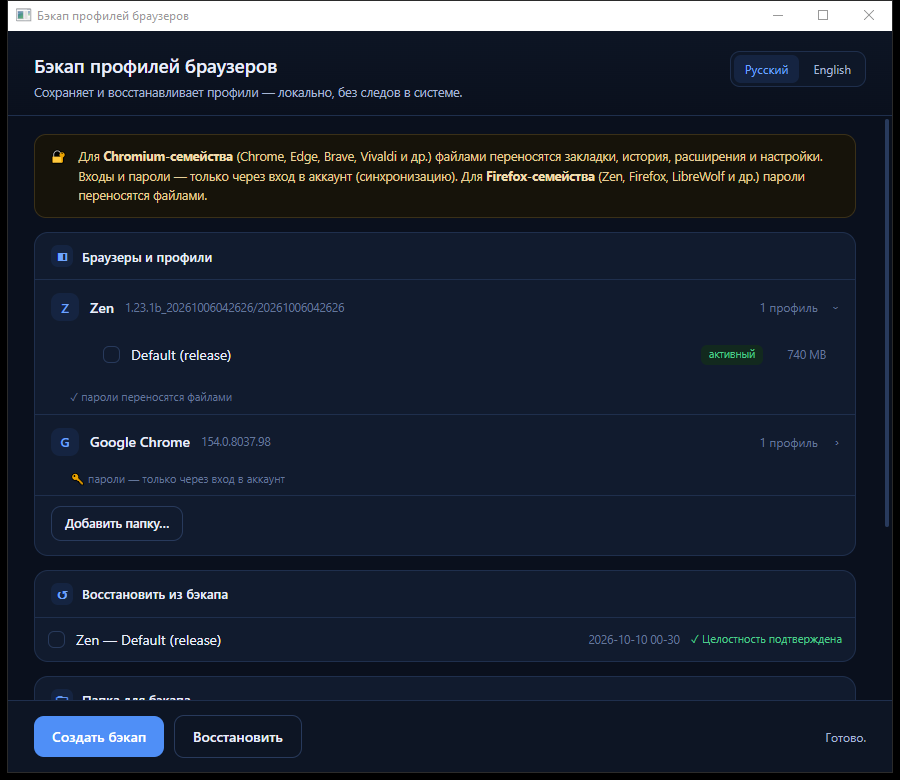
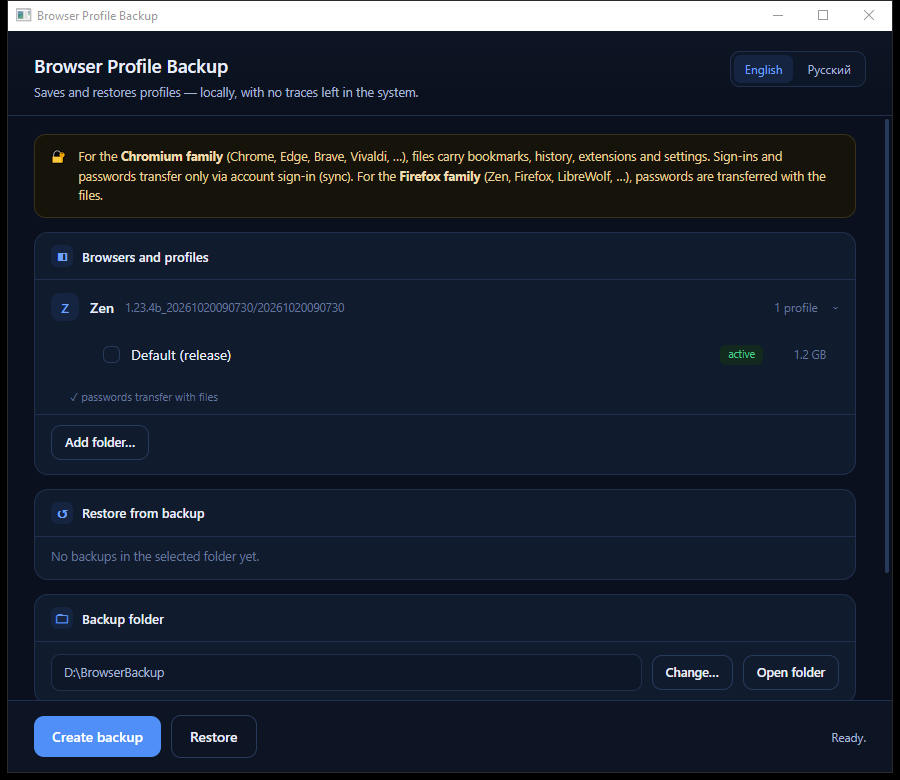
docs: English-first README, Helium in browser lists, new screenshot
README.md is now English-first: the English text is the main body and
Russian moved into a collapsible section, matching the app's new default
language. Added Helium to the browser tables, documented the optional
proc_path field in browsers.json, and described the bilingual backup
README file name.

README.txt updated for the same two changes.

docs/screenshot.png retaken from a real run of the current build: English
UI, the new default, at the app's actual default window size (900x780).

diff --git a/README.md b/README.md
@@ -1,120 +1,120 @@
 # BrowserBackup
 
-**Портативная утилита для Windows: сохраняет и восстанавливает профили браузеров.**
-Один `.exe`, без установки. Ничего не пишет в систему — ни в реестр, ни в `%APPDATA%`.
+**A portable Windows utility that backs up and restores browser profiles.**
+One `.exe`, no installation. Writes nothing to the system — not to the registry, not to `%APPDATA%`.
 
 <p align="center">
-  <img src="docs/screenshot.png" alt="Окно BrowserBackup" width="700">
+  <img src="docs/screenshot.png" alt="BrowserBackup window" width="700">
 </p>
 
 ---
 
-## Скачать
+## Download
 
-**[⬇ Последний релиз](https://github.com/Hayden-Wright/browser-backup-tool/releases/latest)** → `BrowserBackup.exe`
+**[⬇ Latest release](https://github.com/Hayden-Wright/browser-backup-tool/releases/latest)** → `BrowserBackup.exe`
 
-Запускать двойным щелчком. Установка не требуется — можно положить на флешку.
-При первом запуске SmartScreen может предупредить о «неизвестном издателе»
-(файл без платной подписи) — нажмите **«Подробнее» → «Выполнить в любом случае»**.
+Double-click to run. No installation needed — it runs from a USB stick.
+On first launch SmartScreen may warn about an "unknown publisher" (the file has no
+paid code-signing certificate) — click **"More info" → "Run anyway"**.
 
-> **Требование:** Windows 10/11 (64-бит). Нужен **WebView2 Runtime** — в Windows 11
-> и большинстве сборок Windows 10 он уже установлен. Если окно не открывается,
-> поставьте [Microsoft Edge WebView2 Runtime](https://developer.microsoft.com/microsoft-edge/webview2/).
-
----
-
-## Возможности
-
-- 🔒 **Полностью портативно** — настройки рядом с `.exe`, временные данные движка
-  удаляются при выходе, в профиле пользователя и реестре не остаётся следов.
-- 🧩 **Много браузеров** — Firefox- и Chromium-семейства определяются автоматически,
-  плюс режим «Другой браузер» для любого.
-- ✅ **Проверка целостности** — SHA-256 считается на лету при копировании, битый
-  бэкап сразу видно, а не «тихо сломанный».
-- 🛟 **Безопасное восстановление** — текущий профиль не удаляется: сначала делается
-  страховочная копия (`_safety`), откатиться можно в любой момент.
-- ⚡ **Отзывчивый интерфейс** — долгие операции идут в фоне, окно не «зависает».
-- 🌐 **Русский / English**, тёмная тема.
+> **Requirements:** Windows 10/11 (64-bit). Needs the **WebView2 Runtime** — it is
+> preinstalled on Windows 11 and most Windows 10 builds. If the window does not open,
+> install [Microsoft Edge WebView2 Runtime](https://developer.microsoft.com/microsoft-edge/webview2/).
 
 ---
 
-## Поддерживаемые браузеры
+## Features
 
-| Семейство | Браузеры | Пароли |
+- 🔒 **Fully portable** — settings live next to the `.exe`, the engine's temporary data
+  is deleted on exit, nothing is left in the user profile or the registry.
+- 🧩 **Many browsers** — Firefox and Chromium families are detected automatically,
+  plus an "Other browser" mode for anything else.
+- ✅ **Integrity checking** — SHA-256 is computed on the fly while copying, so a damaged
+  backup shows up immediately instead of being silently broken.
+- 🛟 **Safe restore** — your current profile is not deleted: a safety copy (`_safety`)
+  is made first, so you can roll back at any time.
+- ⚡ **Responsive UI** — long operations run in the background, the window never freezes.
+- 🌐 **English / Русский** — English is the default; Russian is a full second language,
+  switched in the window.
+
+---
+
+## Supported browsers
+
+| Family | Browsers | Passwords |
 |---|---|---|
-| **Firefox** | Zen, Firefox, LibreWolf, Waterfox, Floorp | ✅ переносятся файлами |
-| **Chromium** | Chrome, Edge, Brave, Vivaldi, Chromium, Thorium, Ungoogled Chromium, SRWare Iron, Arc | ⚠ только через синхронизацию аккаунта |
-| **Другой** | любой — указать папку профиля вручную | зависит от браузера |
+| **Firefox** | Zen, Firefox, LibreWolf, Waterfox, Floorp | ✅ transferred as files |
+| **Chromium** | Chrome, Edge, Brave, Vivaldi, Chromium, Thorium, Ungoogled Chromium, SRWare Iron, Helium, Arc | ⚠ only via account sync |
+| **Other** | any — pick the profile folder manually | depends on the browser |
 
-### Про пароли — это важно
+### About passwords — this matters
 
-- **Firefox-семейство** хранит пароли и входы в профиле — после восстановления
-  вы будете залогинены везде, как раньше.
-- **Chromium-семейство** шифрует пароли и куки ключом вашей учётной записи Windows.
-  После переустановки Windows ключ меняется, поэтому старые пароли и куки
-  **не расшифруются**, даже если файлы скопированы идеально. Файлами переносятся
-  закладки, история, расширения и настройки; входы и пароли возвращаются **только
-  через вход в аккаунт (Google/Microsoft/Brave/…)** и включённую синхронизацию.
+- **Firefox family** stores passwords and sign-ins inside the profile — after a restore
+  you will be logged in everywhere, just like before.
+- **Chromium family** encrypts passwords and cookies with your Windows account key.
+  After reinstalling Windows the key changes, so old passwords and cookies
+  **will not decrypt**, even if the files were copied perfectly. Files carry bookmarks,
+  history, extensions and settings; sign-ins and passwords come back **only via
+  account sign-in (Google/Microsoft/Brave/…)** with sync enabled.
 
-Программа предупреждает об этом прямо в окне, рядом с каждым таким браузером.
-
----
-
-## Как пользоваться
-
-**Бэкап**
-1. Запустите `BrowserBackup.exe`.
-2. В разделе «Браузеры и профили» нажмите на браузер — раскроется список профилей,
-   отметьте нужные галочками.
-   - «активный» — профиль, которым вы пользуетесь сейчас;
-   - «пустой» — служебная папка без данных (бэкапить не нужно). У Zen рядом с рабочим
-     профилем может лежать пустая заготовка «Default Profile» — это **не дубликат**.
-3. Укажите «Папку для бэкапа» кнопкой «Изменить…».
-   > ⚠ Не храните бэкап на диске `C:` — при переустановке Windows он сотрётся.
-   > Программа об этом предупредит.
-4. Нажмите «Создать бэкап». **Браузер должен быть закрыт** — иначе часть файлов
-   не скопируется, и программа не даст продолжить.
-
-**Восстановление**
-1. Установите браузер(ы), запустите каждый **один раз** и закройте — чтобы браузер
-   сам создал свежую папку профиля.
-2. Запустите `BrowserBackup.exe`, укажите ту же папку бэкапа.
-3. В разделе «Восстановить из бэкапа» отметьте нужное и нажмите «Восстановить».
+The app warns about this right in the window, next to each such browser.
 
 ---
 
-## Особенности
+## How to use
 
-- Профиль переносится в папку, которую создал **новый** браузер, а не в папку со
-  старым случайным id — так работает корректно.
-- **Кэш не копируется** — он не нужен для переноса данных и занимает много места.
-- Каждый бэкап — отдельная папка с датой и временем в имени
-  (`zen_Default (release)_2026-10-09_18-41-12`). Новый бэкап **никогда** не
-  перезаписывает старый.
-- Внутри бэкапа — `manifest.json` и `ПРОЧТИ_МЕНЯ.txt`: браузер, версия, профиль,
-  дата, Windows, компьютер, число файлов, размер, контрольные суммы.
-- Все действия пишутся в `browser-backup.log` в папке бэкапа. Кнопка
-  «Открыть файл лога» открывает сам журнал, «Открыть папку» — папку в проводнике.
-- Понятные сообщения об ошибках вместо кодов.
+**Backup**
+1. Run `BrowserBackup.exe`.
+2. In "Browsers and profiles", click a browser — its profile list expands; tick the ones
+   you need.
+   - "active" — the profile you are using right now;
+   - "empty" — a service folder with no data (nothing to back up). Zen may keep an empty
+     "Default Profile" placeholder next to your working profile — that is **not** a duplicate.
+3. Set the "Backup folder" with the "Change…" button.
+   > ⚠ Do not keep the backup on drive `C:` — it will be wiped when Windows is reinstalled.
+   > The app warns you about this.
+4. Click "Create backup". **The browser must be closed** — otherwise some files cannot be
+   copied and the app will not let you continue.
+
+**Restore**
+1. Install the browser(s), run each one **once** and close it — so the browser creates a
+   fresh profile folder itself.
+2. Run `BrowserBackup.exe`, point it at the same backup folder.
+3. In "Restore from backup", tick what you need and click "Restore".
 
 ---
 
-## Портативность и настройки
+## How it works
 
-Программа **не оставляет следов** в системе:
+- The profile is transferred into the folder created by the **new** browser, not into a
+  folder with the old random id — that is what makes it work correctly.
+- **The cache is not copied** — it is not needed to carry data over and takes a lot of space.
+- Every backup is a separate folder with a date and time in its name
+  (`zen_Default (release)_2026-10-09_18-41-12`). A new backup **never** overwrites an old one.
+- Inside a backup — `manifest.json` and `README.txt` (in Russian: `ПРОЧТИ_МЕНЯ.txt`): browser
+  and version, profile, date, Windows, computer, user, file count, size, checksums.
+- Every action is written to `browser-backup.log` in the backup folder. The "Open log file"
+  button opens the log itself, "Open folder" opens the folder in Explorer.
+- Human-readable error messages instead of codes.
 
-| Что | Где |
+---
+
+## Portability and settings
+
+The app **leaves no traces** in the system:
+
+| What | Where |
 |---|---|
-| Настройки (папка бэкапа, язык, «Другой браузер») | `BrowserBackup-settings.json` **рядом с `.exe`** |
-| Временные данные WebView2 (~десятки МБ) | во временной папке Windows, **удаляются при выходе** |
-| Журнал | `browser-backup.log` в папке бэкапа |
-| Реестр / `%APPDATA%` | **не используется** |
+| Settings (backup folder, language, "Other browser") | `BrowserBackup-settings.json` **next to the `.exe`** |
+| WebView2 temporary data (tens of MB) | in the Windows temp folder, **deleted on exit** |
+| Log | `browser-backup.log` in the backup folder |
+| Registry / `%APPDATA%` | **not used** |
 
-Папку с `.exe` можно целиком перенести на флешку — настройки переедут вместе с ней.
-Удалите `BrowserBackup-settings.json` — настройки сбросятся к значениям по умолчанию.
+You can move the folder with the `.exe` to a USB stick — the settings travel with it.
+Delete `BrowserBackup-settings.json` — settings reset to defaults.
 
-**Свой список браузеров.** Положите рядом с `.exe` файл `browsers.json` — он будет
-использован вместо встроенного списка:
+**Custom browser list.** Put a `browsers.json` file next to the `.exe` — it will be used
+instead of the built-in list:
 
 ```json
 {
@@ -122,81 +122,91 @@
     { "key": "mybrowser", "name": "My Browser", "family": "firefox",
       "proc": ["mybrowser"], "roaming": "MyBrowser", "local": "MyBrowser" },
     { "key": "other", "name": "Other", "family": "chromium",
-      "proc": ["other"], "local": "Other/User Data" }
+      "proc": ["other"], "local": "Other/User Data" },
+    { "key": "fork", "name": "Chrome Fork", "family": "chromium",
+      "proc": ["chrome"], "proc_path": "vendor/fork/application/chrome.exe",
+      "local": "Vendor/Fork/User Data" }
   ]
 }
 ```
 
-`family`: `"firefox"` (профили в `%APPDATA%`, пароли файлами) или `"chromium"`
-(профили в `%LOCALAPPDATA%`, пароли только аккаунтом). `roaming` / `local` /
-`packages` — пути-кандидаты (можно несколько через `|`). Если файла нет или он
-повреждён — используется встроенный список.
+`family`: `"firefox"` (profiles in `%APPDATA%`, passwords transfer as files) or
+`"chromium"` (profiles in `%LOCALAPPDATA%`, passwords only via account sync).
+`roaming` / `local` / `packages` — candidate paths (several can be given via `|`).
+If the file is missing or damaged, the built-in list is used.
+
+`proc_path` is optional and only needed for forks whose executable is named like another
+browser's. Helium ships `chrome.exe`, so a name check cannot tell it apart from Google
+Chrome; with `proc_path` the app compares full process paths instead. If process paths
+cannot be read, it falls back to the name check.
 
 ---
 
-## 🔐 Совет по безопасности
+## 🔐 Security note
 
-Для Firefox-семейства бэкап содержит **пароли и активные сессии** — это фактически
-ключи от ваших аккаунтов. Не выкладывайте папку бэкапа в облако и мессенджеры.
-Для надёжности держите её на зашифрованном диске (BitLocker / VeraCrypt).
+For the Firefox family the backup contains **passwords and live sessions** — effectively
+the keys to your accounts. Do not upload the backup folder to cloud storage or messengers.
+Keep it on an encrypted disk (BitLocker / VeraCrypt) to be safe.
 
 ---
 
-## Сборка из исходников
+## Building from source
 
-Нужен [Go](https://go.dev/dl/) 1.26+. Кросс-компиляция под Windows (в т.ч. из WSL):
+Requires [Go](https://go.dev/dl/) 1.26+. Cross-compiling for Windows (including from WSL):
 
 ```sh
 GOOS=windows GOARCH=amd64 GOFLAGS=-mod=mod \
   go build -ldflags "-s -w -H windowsgui" -o BrowserBackup.exe .
 ```
 
-> Флаг `-H windowsgui` обязателен — иначе при запуске открывается лишнее окно консоли.
+> The `-H windowsgui` flag is required — otherwise an extra console window opens on launch.
 
-Тесты логики (хеши, манифест, настройки) гоняются под Linux:
+Logic tests (hashes, manifest, settings) run on Linux:
 
 ```sh
 GOOS=linux go test .
 ```
 
-Подробности об устройстве и истории проекта — в [`HANDOFF.md`](HANDOFF.md).
+Details on the project's internals and history are in [`HANDOFF.md`](HANDOFF.md).
 
 ---
 
-## Технологии
+## Tech
 
-Go · WebView2 (встроенный движок) · свой COM-диалог выбора папки
-(`IFileOpenDialog`) · SHA-256 на лету при копировании · без внешних зависимостей
-кроме `go-webview2`, `go-ole`, `golang.org/x/sys`.
+Go · WebView2 (built-in engine) · custom COM folder picker (`IFileOpenDialog`) ·
+SHA-256 on the fly while copying · no external dependencies except `go-webview2`,
+`go-ole`, `golang.org/x/sys`.
 
-## Лицензия
+## License
 
-Проект распространяется «как есть», без гарантий. Используйте на свой риск —
-всегда проверяйте бэкап перед восстановлением.
+Provided "as is", without warranty. Use at your own risk — always verify a backup
+before restoring.
 
 ---
 
 <details>
-<summary><b>English (short)</b></summary>
+<summary><b>Русский</b></summary>
 
-**BrowserBackup** — a single portable Windows `.exe` that backs up and restores
-browser profiles after reinstalling Windows. No installation, no traces in the
-system (nothing in the registry or `%APPDATA%`).
+**BrowserBackup** — портативная утилита для Windows: сохраняет и восстанавливает
+профили браузеров. Один `.exe`, без установки. Ничего не пишет в систему — ни в
+реестр, ни в `%APPDATA%`.
 
-- **Download:** [latest release](https://github.com/Hayden-Wright/browser-backup-tool/releases/latest) → `BrowserBackup.exe`.
-- **Requires:** Windows 10/11 x64 + WebView2 Runtime (preinstalled on Windows 11).
-- **Firefox family** (Zen, Firefox, LibreWolf, Waterfox, Floorp): passwords are
-  stored in the profile and **transfer with the files**.
-- **Chromium family** (Chrome, Edge, Brave, Vivaldi, …): passwords and cookies are
-  encrypted with your Windows account key, so they **will not decrypt** after a
-  Windows reinstall — sign-ins come back only via account sync. Bookmarks,
-  history, extensions and settings do transfer.
-- Backup: expand a browser → pick profiles → choose a folder (**not on `C:`**) →
-  Create backup. The browser must be closed. Integrity (SHA-256) is checked on the fly.
-- Restore: install the browser, run it once and close it, then Restore. A safety
-  copy of the current profile is made first; nothing is deleted.
-- Settings live in `BrowserBackup-settings.json` next to the `.exe`; carry the
-  folder anywhere and they travel with it.
+- **Скачать:** [последний релиз](https://github.com/Hayden-Wright/browser-backup-tool/releases/latest) → `BrowserBackup.exe`.
+- **Требуется:** Windows 10/11 x64 + WebView2 Runtime (есть в Windows 11).
+  При первом запуске SmartScreen предупредит о «неизвестном издателе» —
+  «Подробнее» → «Выполнить в любом случае».
+- **Firefox-семейство** (Zen, Firefox, LibreWolf, Waterfox, Floorp): пароли лежат
+  в профиле и **переносятся файлами**.
+- **Chromium-семейство** (Chrome, Edge, Brave, Vivaldi, Helium, …): пароли и куки
+  зашифрованы ключом учётной записи Windows, поэтому после переустановки Windows
+  **не расшифруются** — входы возвращаются только через синхронизацию аккаунта.
+  Закладки, история, расширения и настройки переносятся.
+- **Бэкап:** раскройте браузер → отметьте профили → выберите папку (**не на `C:`**) →
+  «Создать бэкап». Браузер должен быть закрыт. Целостность (SHA-256) проверяется на лету.
+- **Восстановление:** установите браузер, запустите его один раз и закройте, затем
+  «Восстановить». Сначала делается страховочная копия текущего профиля, ничего не удаляется.
+- Настройки лежат в `BrowserBackup-settings.json` рядом с `.exe` — папку можно переносить
+  целиком вместе с настройками.
+- Интерфейс: **English / Русский**, английский включён по умолчанию.
 
 </details>
-
